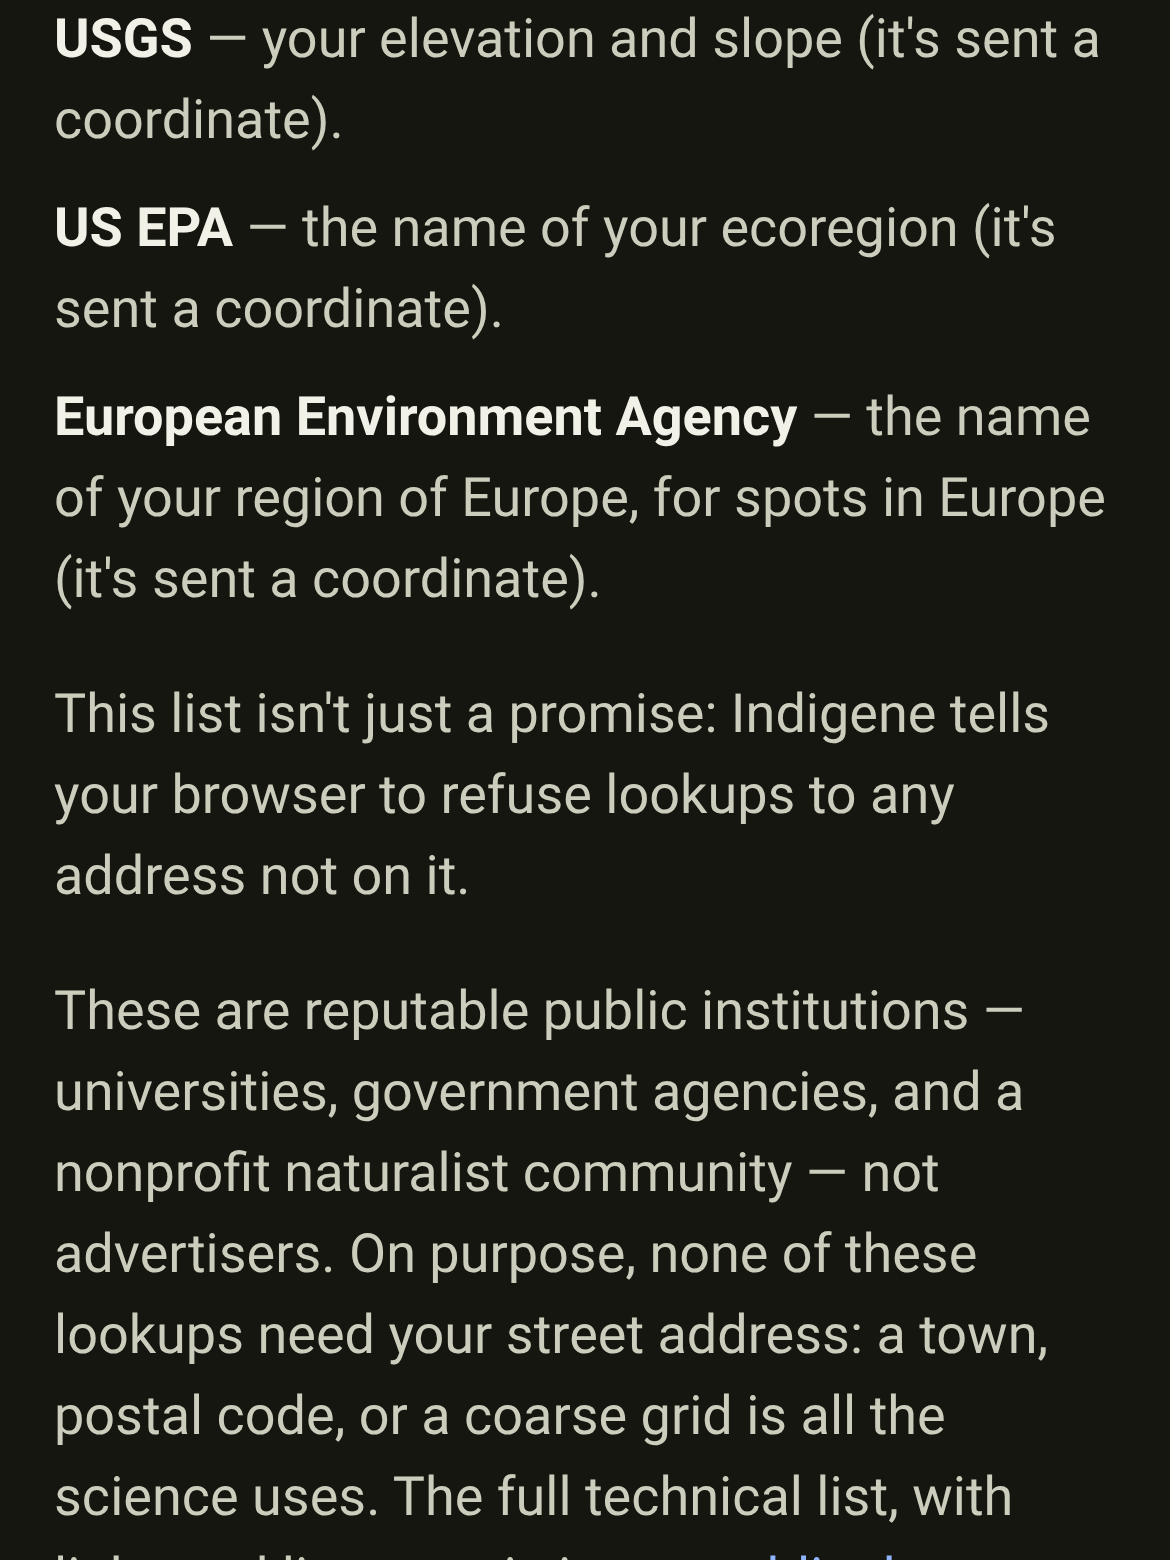
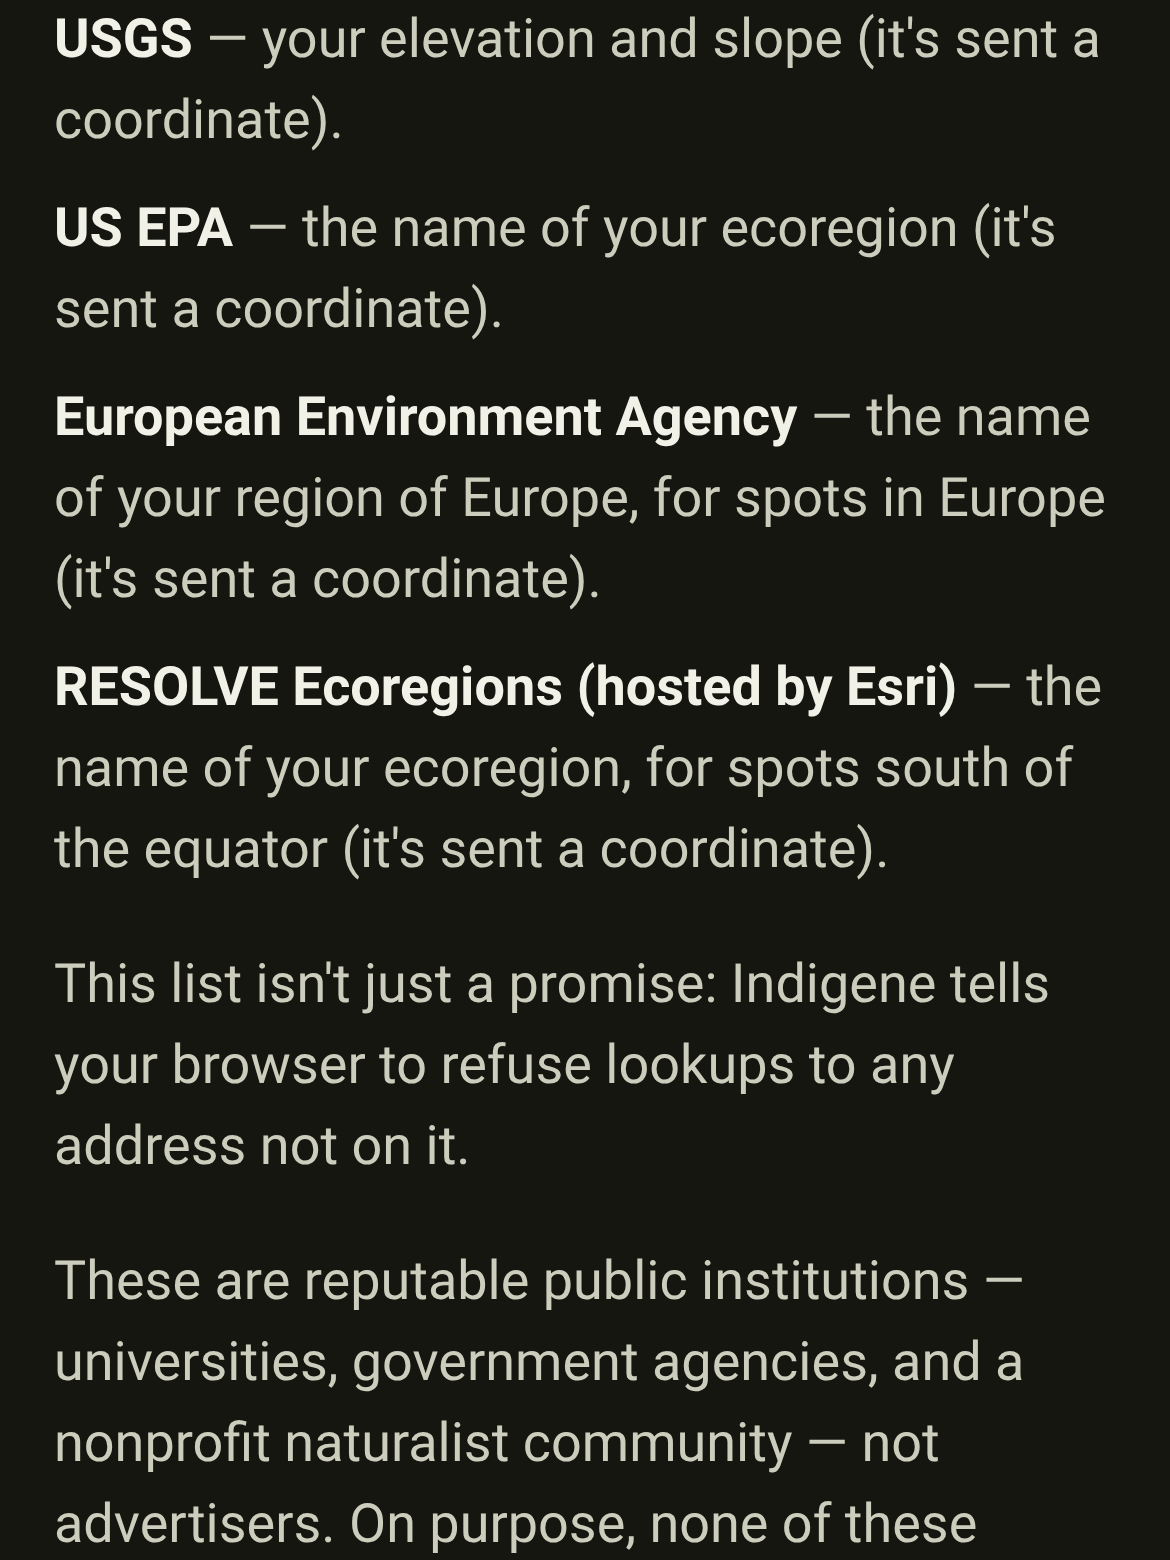
Walk a Sydney spot in csp:check and re-shoot the Privacy page
#162 added a third ecoregion lookup (RESOLVE on services.arcgis.com) for
spots south of the equator; the rebase allowed its host and named it on
the Privacy page. This walks a Sydney spot so the check covers it, and
re-shoots the Privacy list with the new row.

Claude-Session: https://claude.ai/code/session_01PjLLNB1b75ZkPYLqZhijZc

Changed region(s): [[0.0308, 0.6154, 0.8923, 1.0], [0.0308, 0.4308, 0.9538, 0.5846], [0.7385, 0.7385, 0.8, 0.7692]]

diff --git a/CHANGELOG.md b/CHANGELOG.md
@@ -44,8 +44,8 @@ subtitle on the What's new page.
   drawn by `maps:build`; `npm run probe:resolve` confirms the hosted layer,
   which the sandbox's proxy refuses; `coverage` measures a southern list's
   bloom against its own spring.
-- The list of services on the [Privacy page](https://indigene.app/privacy) is now enforced, not just promised: your browser refuses any lookup to an address that isn't on it. The European Environment Agency, which names your region for spots in Europe, joins the list.
-- Internal: a Content-Security-Policy `<meta>` built from `src/lib/csp.ts` is stamped into every app page and 404.html at build time, with inline-script hashes computed from the built HTML. `npm run csp:check` walks the built app in Chromium (GPS in the US and France, town search, iNaturalist sightings, the page count) and fails on any refusal; a new `Content-Security-Policy` workflow runs it on PRs.
+- The list of services on the [Privacy page](https://indigene.app/privacy) is now enforced, not just promised: your browser refuses any lookup to an address that isn't on it. Two missing entries join it: the services naming your region in Europe and south of the equator.
+- Internal: a Content-Security-Policy `<meta>` built from `src/lib/csp.ts` is stamped into every app page and 404.html at build time, with inline-script hashes computed from the built HTML. `npm run csp:check` walks the built app in Chromium (GPS in the US, France and Sydney, town search, iNaturalist sightings, the page count) and fails on any refusal; a new `Content-Security-Policy` workflow runs it on PRs.
 - Internal: `el()` no longer accepts an `html` attribute, so nothing can reach `innerHTML` through it, and iNaturalist photo URLs from API responses are dropped unless they're https on iNaturalist's two photo hosts.
 
 ## [0.33] - 2026-09-24
